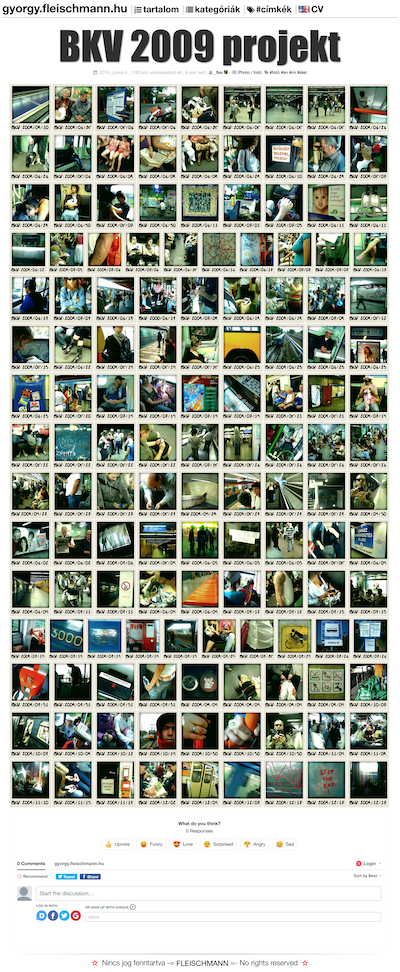
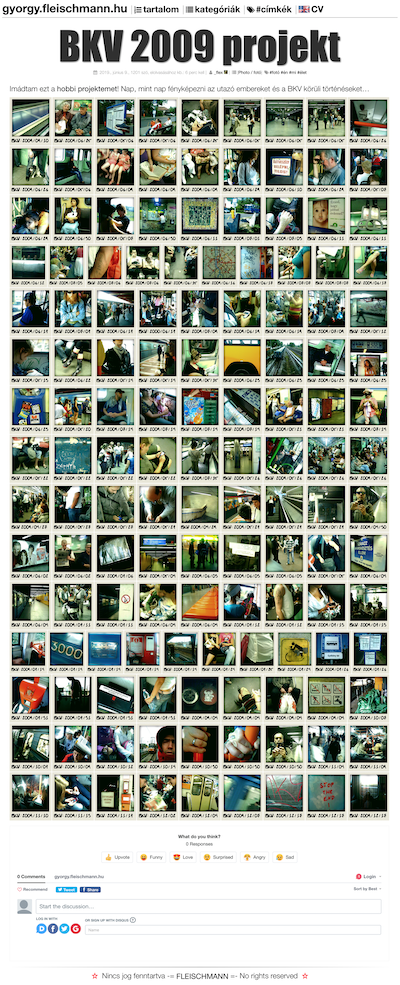
FIX: the mess...

diff --git a/_posts/2019-06-09-BKV2009.md b/_posts/2019-06-09-BKV2009.md
@@ -15,145 +15,147 @@ tags:     [fotó, én, mi, élet]
 <script type='text/javascript' src='unitegallery/js/unitegallery.min.js'></script> 
 <script type='text/javascript' src='unitegallery/themes/tiles/ug-theme-tiles.js'></script>
 
+Imádtam ezt a <a href="https:/www.flickr.com/photos/fleischmann/sets/72157622129419487/">hobbi projektemet</a>! Nap, mint nap fényképezni az utazó embereket és a BKV körüli történéseket...
+
 <div id="gallery" style="display:none; margin-bottom: .7em; margin-left: 0; margin-right: 0; margin-top: .5em;">
 
-	<img alt="BKV 2009" data-description="BKV 2009" src="photos/BKV2009/3907714768_a01dcdb5fc_o.jpg" data-image="photoBKV2009ra/3907714768_a01dcdb5fc_o.jpg">
-	<img alt="BKV 2009" data-description="BKV 2009" src="photos/BKV2009/img_0011_2_3890210790_o.jpg" data-image="photoBKV2009ra/img_0011_2_3890210790_o.jpg">
-	<img alt="BKV 2009" data-description="BKV 2009" src="photos/BKV2009/img_0011_3889391271_o.jpg" data-image="photos/BKV2009/img_0011_3889391271_o.jpg">
-	<img alt="BKV 2009" data-description="BKV 2009" src="photos/BKV2009/img_0013_3889391713_o.jpg" data-image="photos/BKV2009/img_0013_3889391713_o.jpg">
-	<img alt="BKV 2009" data-description="BKV 2009" src="photos/BKV2009/img_0024_2_3889418079_o.jpg" data-image="photoBKV2009ra/img_0024_2_3889418079_o.jpg">
-	<img alt="BKV 2009" data-description="BKV 2009" src="photos/BKV2009/img_0037_3890200180_o.jpg" data-image="photos/BKV2009/img_0037_3890200180_o.jpg">
-	<img alt="BKV 2009" data-description="BKV 2009" src="photos/BKV2009/img_0038_3890200560_o.jpg" data-image="photos/BKV2009/img_0038_3890200560_o.jpg">
-	<img alt="BKV 2009" data-description="BKV 2009" src="photos/BKV2009/img_0039_3889407527_o.jpg" data-image="photos/BKV2009/img_0039_3889407527_o.jpg">
-	<img alt="BKV 2009" data-description="BKV 2009" src="photos/BKV2009/img_0043_3890211640_o.jpg" data-image="photos/BKV2009/img_0043_3890211640_o.jpg">
-	<img alt="BKV 2009" data-description="BKV 2009" src="photos/BKV2009/img_0046_2_3890212124_o.jpg" data-image="photoBKV2009ra/img_0046_2_3890212124_o.jpg">
-	<img alt="BKV 2009" data-description="BKV 2009" src="photos/BKV2009/img_0047_3890185954_o.jpg" data-image="photos/BKV2009/img_0047_3890185954_o.jpg">
-	<img alt="BKV 2009" data-description="BKV 2009" src="photos/BKV2009/img_0052_3889407945_o.jpg" data-image="photos/BKV2009/img_0052_3889407945_o.jpg">
-	<img alt="BKV 2009" data-description="BKV 2009" src="photos/BKV2009/img_0053_3890201778_o.jpg" data-image="photos/BKV2009/img_0053_3890201778_o.jpg">
-	<img alt="BKV 2009" data-description="BKV 2009" src="photos/BKV2009/img_0054_3890202220_o.jpg" data-image="photos/BKV2009/img_0054_3890202220_o.jpg">
-	<img alt="BKV 2009" data-description="BKV 2009" src="photos/BKV2009/img_0061_3889419403_o.jpg" data-image="photos/BKV2009/img_0061_3889419403_o.jpg">
-	<img alt="BKV 2009" data-description="BKV 2009" src="photos/BKV2009/img_0066_3889409177_o.jpg" data-image="photos/BKV2009/img_0066_3889409177_o.jpg">
-	<img alt="BKV 2009" data-description="BKV 2009" src="photos/BKV2009/img_0069_3889419851_o.jpg" data-image="photos/BKV2009/img_0069_3889419851_o.jpg">
-	<img alt="BKV 2009" data-description="BKV 2009" src="photos/BKV2009/img_0070_3890186314_o.jpg" data-image="photos/BKV2009/img_0070_3890186314_o.jpg">
-	<img alt="BKV 2009" data-description="BKV 2009" src="photos/BKV2009/img_0070_3890213528_o.jpg" data-image="photos/BKV2009/img_0070_3890213528_o.jpg">
-	<img alt="BKV 2009" data-description="BKV 2009" src="photos/BKV2009/img_0071_3890213978_o.jpg" data-image="photos/BKV2009/img_0071_3890213978_o.jpg">
-	<img alt="BKV 2009" data-description="BKV 2009" src="photos/BKV2009/img_0074_3889392997_o.jpg" data-image="photos/BKV2009/img_0074_3889392997_o.jpg">
-	<img alt="BKV 2009" data-description="BKV 2009" src="photos/BKV2009/img_0090_3890214430_o.jpg" data-image="photos/BKV2009/img_0090_3890214430_o.jpg">
-	<img alt="BKV 2009" data-description="BKV 2009" src="photos/BKV2009/img_0095_3889409639_o.jpg" data-image="photos/BKV2009/img_0095_3889409639_o.jpg">
-	<img alt="BKV 2009" data-description="BKV 2009" src="photos/BKV2009/img_0103_3890214894_o.jpg" data-image="photos/BKV2009/img_0103_3890214894_o.jpg">
-	<img alt="BKV 2009" data-description="BKV 2009" src="photos/BKV2009/img_0114_3889422099_o.jpg" data-image="photos/BKV2009/img_0114_3889422099_o.jpg">
-	<img alt="BKV 2009" data-description="BKV 2009" src="photos/BKV2009/img_0116_3889410097_o.jpg" data-image="photos/BKV2009/img_0116_3889410097_o.jpg">
-	<img alt="BKV 2009" data-description="BKV 2009" src="photos/BKV2009/img_0117_3889410399_o.jpg" data-image="photos/BKV2009/img_0117_3889410399_o.jpg">
-	<img alt="BKV 2009" data-description="BKV 2009" src="photos/BKV2009/img_0124_3889410841_o.jpg" data-image="photos/BKV2009/img_0124_3889410841_o.jpg">
-	<img alt="BKV 2009" data-description="BKV 2009" src="photos/BKV2009/img_0124_3889422513_o.jpg" data-image="photos/BKV2009/img_0124_3889422513_o.jpg">
-	<img alt="BKV 2009" data-description="BKV 2009" src="photos/BKV2009/img_0165_3890216254_o.jpg" data-image="photos/BKV2009/img_0165_3890216254_o.jpg">
-	<img alt="BKV 2009" data-description="BKV 2009" src="photos/BKV2009/img_0171_3889423457_o.jpg" data-image="photos/BKV2009/img_0171_3889423457_o.jpg">
-	<img alt="BKV 2009" data-description="BKV 2009" src="photos/BKV2009/img_0179_3889411231_o.jpg" data-image="photos/BKV2009/img_0179_3889411231_o.jpg">
-	<img alt="BKV 2009" data-description="BKV 2009" src="photos/BKV2009/img_0186_3889411651_o.jpg" data-image="photos/BKV2009/img_0186_3889411651_o.jpg">
-	<img alt="BKV 2009" data-description="BKV 2009" src="photos/BKV2009/img_0193_3889412087_o.jpg" data-image="photos/BKV2009/img_0193_3889412087_o.jpg">
-	<img alt="BKV 2009" data-description="BKV 2009" src="photos/BKV2009/img_0193_3889423873_o.jpg" data-image="photos/BKV2009/img_0193_3889423873_o.jpg">
-	<img alt="BKV 2009" data-description="BKV 2009" src="photos/BKV2009/img_0201_3890217478_o.jpg" data-image="photos/BKV2009/img_0201_3890217478_o.jpg">
-	<img alt="BKV 2009" data-description="BKV 2009" src="photos/BKV2009/img_0203_3889412559_o.jpg" data-image="photos/BKV2009/img_0203_3889412559_o.jpg">
-	<img alt="BKV 2009" data-description="BKV 2009" src="photos/BKV2009/img_0213_3889412957_o.jpg" data-image="photos/BKV2009/img_0213_3889412957_o.jpg">
-	<img alt="BKV 2009" data-description="BKV 2009" src="photos/BKV2009/img_0217_3890217940_o.jpg" data-image="photos/BKV2009/img_0217_3890217940_o.jpg">
-	<img alt="BKV 2009" data-description="BKV 2009" src="photos/BKV2009/img_0223_3890206712_o.jpg" data-image="photos/BKV2009/img_0223_3890206712_o.jpg">
-	<img alt="BKV 2009" data-description="BKV 2009" src="photos/BKV2009/img_0224_3890207112_o.jpg" data-image="photos/BKV2009/img_0224_3890207112_o.jpg">
-	<img alt="BKV 2009" data-description="BKV 2009" src="photos/BKV2009/img_0225_3890218338_o.jpg" data-image="photos/BKV2009/img_0225_3890218338_o.jpg">
-	<img alt="BKV 2009" data-description="BKV 2009" src="photos/BKV2009/img_0233_3890207504_o.jpg" data-image="photos/BKV2009/img_0233_3890207504_o.jpg">
-	<img alt="BKV 2009" data-description="BKV 2009" src="photos/BKV2009/img_0234_3890207974_o.jpg" data-image="photos/BKV2009/img_0234_3890207974_o.jpg">
-	<img alt="BKV 2009" data-description="BKV 2009" src="photos/BKV2009/img_0243_3890218766_o.jpg" data-image="photos/BKV2009/img_0243_3890218766_o.jpg">
-	<img alt="BKV 2009" data-description="BKV 2009" src="photos/BKV2009/img_0270_3890187132_o.jpg" data-image="photos/BKV2009/img_0270_3890187132_o.jpg">
-	<img alt="BKV 2009" data-description="BKV 2009" src="photos/BKV2009/img_0285_3890187440_o.jpg" data-image="photos/BKV2009/img_0285_3890187440_o.jpg">
-	<img alt="BKV 2009" data-description="BKV 2009" src="photos/BKV2009/img_0290_3889415283_o.jpg" data-image="photos/BKV2009/img_0290_3889415283_o.jpg">
-	<img alt="BKV 2009" data-description="BKV 2009" src="photos/BKV2009/img_0302_3890187832_o.jpg" data-image="photos/BKV2009/img_0302_3890187832_o.jpg">
-	<img alt="BKV 2009" data-description="BKV 2009" src="photos/BKV2009/img_0308_3889394625_o.jpg" data-image="photos/BKV2009/img_0308_3889394625_o.jpg">
-	<img alt="BKV 2009" data-description="BKV 2009" src="photos/BKV2009/img_0313_3889394985_o.jpg" data-image="photos/BKV2009/img_0313_3889394985_o.jpg">
-	<img alt="BKV 2009" data-description="BKV 2009" src="photos/BKV2009/img_0316_2_3890208806_o.jpg" data-image="photoBKV2009ra/img_0316_2_3890208806_o.jpg">
-	<img alt="BKV 2009" data-description="BKV 2009" src="photos/BKV2009/img_0317_2_3889415983_o.jpg" data-image="photoBKV2009ra/img_0317_2_3889415983_o.jpg">
-	<img alt="BKV 2009" data-description="BKV 2009" src="photos/BKV2009/img_0318_2_3889416409_o.jpg" data-image="photoBKV2009ra/img_0318_2_3889416409_o.jpg">
-	<img alt="BKV 2009" data-description="BKV 2009" src="photos/BKV2009/img_0319_2_3890209890_o.jpg" data-image="photoBKV2009ra/img_0319_2_3890209890_o.jpg">
-	<img alt="BKV 2009" data-description="BKV 2009" src="photos/BKV2009/img_0327_3890210328_o.jpg" data-image="photos/BKV2009/img_0327_3890210328_o.jpg">
-	<img alt="BKV 2009" data-description="BKV 2009" src="photos/BKV2009/img_0440_3890189166_o.jpg" data-image="photos/BKV2009/img_0440_3890189166_o.jpg">
-	<img alt="BKV 2009" data-description="BKV 2009" src="photos/BKV2009/img_0455_3890219126_o.jpg" data-image="photos/BKV2009/img_0455_3890219126_o.jpg">
-	<img alt="BKV 2009" data-description="BKV 2009" src="photos/BKV2009/img_0456_3889426395_o.jpg" data-image="photos/BKV2009/img_0456_3889426395_o.jpg">
-	<img alt="BKV 2009" data-description="BKV 2009" src="photos/BKV2009/img_0457_3889426801_o.jpg" data-image="photos/BKV2009/img_0457_3889426801_o.jpg">
-	<img alt="BKV 2009" data-description="BKV 2009" src="photos/BKV2009/img_0458_3889427209_o.jpg" data-image="photos/BKV2009/img_0458_3889427209_o.jpg">
-	<img alt="BKV 2009" data-description="BKV 2009" src="photos/BKV2009/img_0460_3890189556_o.jpg" data-image="photos/BKV2009/img_0460_3890189556_o.jpg">
-	<img alt="BKV 2009" data-description="BKV 2009" src="photos/BKV2009/img_0461_3890190004_o.jpg" data-image="photos/BKV2009/img_0461_3890190004_o.jpg">
-	<img alt="BKV 2009" data-description="BKV 2009" src="photos/BKV2009/img_0470_3890220842_o.jpg" data-image="photos/BKV2009/img_0470_3890220842_o.jpg">
-	<img alt="BKV 2009" data-description="BKV 2009" src="photos/BKV2009/img_0481_3889396753_o.jpg" data-image="photos/BKV2009/img_0481_3889396753_o.jpg">
-	<img alt="BKV 2009" data-description="BKV 2009" src="photos/BKV2009/img_0486_3890190796_o.jpg" data-image="photos/BKV2009/img_0486_3890190796_o.jpg">
-	<img alt="BKV 2009" data-description="BKV 2009" src="photos/BKV2009/img_0495_3890191160_o.jpg" data-image="photos/BKV2009/img_0495_3890191160_o.jpg">
-	<img alt="BKV 2009" data-description="BKV 2009" src="photos/BKV2009/img_0496_3890191578_o.jpg" data-image="photos/BKV2009/img_0496_3890191578_o.jpg">
-	<img alt="BKV 2009" data-description="BKV 2009" src="photos/BKV2009/img_0501_3889428113_o.jpg" data-image="photos/BKV2009/img_0501_3889428113_o.jpg">
-	<img alt="BKV 2009" data-description="BKV 2009" src="photos/BKV2009/img_0603_3890192032_o.jpg" data-image="photos/BKV2009/img_0603_3890192032_o.jpg">
-	<img alt="BKV 2009" data-description="BKV 2009" src="photos/BKV2009/img_0604_3889398715_o.jpg" data-image="photos/BKV2009/img_0604_3889398715_o.jpg">
-	<img alt="BKV 2009" data-description="BKV 2009" src="photos/BKV2009/img_0605_3890192894_o.jpg" data-image="photos/BKV2009/img_0605_3890192894_o.jpg">
-	<img alt="BKV 2009" data-description="BKV 2009" src="photos/BKV2009/img_0606_3890193354_o.jpg" data-image="photos/BKV2009/img_0606_3890193354_o.jpg">
-	<img alt="BKV 2009" data-description="BKV 2009" src="photos/BKV2009/img_0625_3889389193_o.jpg" data-image="photos/BKV2009/img_0625_3889389193_o.jpg">
-	<img alt="BKV 2009" data-description="BKV 2009" src="photos/BKV2009/img_0626_3889400009_o.jpg" data-image="photos/BKV2009/img_0626_3889400009_o.jpg">
-	<img alt="BKV 2009" data-description="BKV 2009" src="photos/BKV2009/img_0636_3890194252_o.jpg" data-image="photos/BKV2009/img_0636_3890194252_o.jpg">
-	<img alt="BKV 2009" data-description="BKV 2009" src="photos/BKV2009/img_0657_3889400885_o.jpg" data-image="photos/BKV2009/img_0657_3889400885_o.jpg">
-	<img alt="BKV 2009" data-description="BKV 2009" src="photos/BKV2009/img_0664_3889389611_o.jpg" data-image="photos/BKV2009/img_0664_3889389611_o.jpg">
-	<img alt="BKV 2009" data-description="BKV 2009" src="photos/BKV2009/img_0668_3890195188_o.jpg" data-image="photos/BKV2009/img_0668_3890195188_o.jpg">
-	<img alt="BKV 2009" data-description="BKV 2009" src="photos/BKV2009/img_0669_3889401813_o.jpg" data-image="photos/BKV2009/img_0669_3889401813_o.jpg">
-	<img alt="BKV 2009" data-description="BKV 2009" src="photos/BKV2009/img_0675_3889402233_o.jpg" data-image="photos/BKV2009/img_0675_3889402233_o.jpg">
-	<img alt="BKV 2009" data-description="BKV 2009" src="photos/BKV2009/img_0751_3889390001_o.jpg" data-image="photos/BKV2009/img_0751_3889390001_o.jpg">
-	<img alt="BKV 2009" data-description="BKV 2009" src="photos/BKV2009/img_0912_3890196540_o.jpg" data-image="photos/BKV2009/img_0912_3890196540_o.jpg">
-	<img alt="BKV 2009" data-description="BKV 2009" src="photos/BKV2009/img_0914_3890196916_o.jpg" data-image="photos/BKV2009/img_0914_3890196916_o.jpg">
-	<img alt="BKV 2009" data-description="BKV 2009" src="photos/BKV2009/img_0947_3890221734_o.jpg" data-image="photos/BKV2009/img_0947_3890221734_o.jpg">
-	<img alt="BKV 2009" data-description="BKV 2009" src="photos/BKV2009/img_0953_3889390413_o.jpg" data-image="photos/BKV2009/img_0953_3889390413_o.jpg">
-	<img alt="BKV 2009" data-description="BKV 2009" src="photos/BKV2009/img_0955_3889403493_o.jpg" data-image="photos/BKV2009/img_0955_3889403493_o.jpg">
-	<img alt="BKV 2009" data-description="BKV 2009" src="photos/BKV2009/img_0961_3889403909_o.jpg" data-image="photos/BKV2009/img_0961_3889403909_o.jpg">
-	<img alt="BKV 2009" data-description="BKV 2009" src="photos/BKV2009/img_0962_3889404315_o.jpg" data-image="photos/BKV2009/img_0962_3889404315_o.jpg">
-	<img alt="BKV 2009" data-description="BKV 2009" src="photos/BKV2009/img_0986_3889390875_o.jpg" data-image="photos/BKV2009/img_0986_3889390875_o.jpg">
-	<img alt="BKV 2009" data-description="BKV 2009" src="photos/BKV2009/img_0986_3889404743_o.jpg" data-image="photos/BKV2009/img_0986_3889404743_o.jpg">
-	<img alt="BKV 2009" data-description="BKV 2009" src="photos/BKV2009/img_0987_3889405201_o.jpg" data-image="photos/BKV2009/img_0987_3889405201_o.jpg">
-	<img alt="BKV 2009" data-description="BKV 2009" src="photos/BKV2009/img_0993_3890222132_o.jpg" data-image="photos/BKV2009/img_0993_3890222132_o.jpg">
-	<img alt="BKV 2009" data-description="BKV 2009" src="photos/BKV2009/img_0994_3890222552_o.jpg" data-image="photos/BKV2009/img_0994_3890222552_o.jpg">
-	<img alt="BKV 2009" data-description="BKV 2009" src="photos/BKV2009/img_0996_3889405659_o.jpg" data-image="photos/BKV2009/img_0996_3889405659_o.jpg">
-	<img alt="BKV 2009" data-description="BKV 2009" src="photos/BKV2009/img_0998_3890199768_o.jpg" data-image="photos/BKV2009/img_0998_3890199768_o.jpg">
-	<img alt="BKV 2009" data-description="BKV 2009" src="photos/BKV2009/img_2334_3890223034_o.jpg" data-image="photos/BKV2009/img_2334_3890223034_o.jpg">
-	<img alt="BKV 2009" data-description="BKV 2009" src="photos/BKV2009/img_2338_3889430235_o.jpg" data-image="photos/BKV2009/img_2338_3889430235_o.jpg">
-	<img alt="BKV 2009" data-description="BKV 2009" src="photos/BKV2009/img_2351_3890223886_o.jpg" data-image="photos/BKV2009/img_2351_3890223886_o.jpg">
-	<img alt="BKV 2009" data-description="BKV 2009" src="photos/BKV2009/img_2354_3889431031_o.jpg" data-image="photos/BKV2009/img_2354_3889431031_o.jpg">
-	<img alt="BKV 2009" data-description="BKV 2009" src="photos/BKV2009/img_2373_3890224624_o.jpg" data-image="photos/BKV2009/img_2373_3890224624_o.jpg">
-	<img alt="BKV 2009" data-description="BKV 2009" src="photos/BKV2009/img_2374_3890224948_o.jpg" data-image="photos/BKV2009/img_2374_3890224948_o.jpg">
-	<img alt="BKV 2009" data-description="BKV 2009" src="photos/BKV2009/img_2376_3890225294_o.jpg" data-image="photos/BKV2009/img_2376_3890225294_o.jpg">
-	<img alt="BKV 2009" data-description="BKV 2009" src="photos/BKV2009/img_2377_3889432527_o.jpg" data-image="photos/BKV2009/img_2377_3889432527_o.jpg">
-	<img alt="BKV 2009" data-description="BKV 2009" src="photos/BKV2009/img_2378_3889432915_o.jpg" data-image="photos/BKV2009/img_2378_3889432915_o.jpg">
-	<img alt="BKV 2009" data-description="BKV 2009" src="photos/BKV2009/img_3141_3890226400_o.jpg" data-image="photos/BKV2009/img_3141_3890226400_o.jpg">
-	<img alt="BKV 2009" data-description="BKV 2009" src="photos/BKV2009/img_3160_3890226732_o.jpg" data-image="photos/BKV2009/img_3160_3890226732_o.jpg">
-	<img alt="BKV 2009" data-description="BKV 2009" src="photos/BKV2009/img_3161_3890227144_o.jpg" data-image="photos/BKV2009/img_3161_3890227144_o.jpg">
-	<img alt="BKV 2009" data-description="BKV 2009" src="photos/BKV2009/img_3194_3890227506_o.jpg" data-image="photos/BKV2009/img_3194_3890227506_o.jpg">
-	<img alt="BKV 2009" data-description="BKV 2009" src="photos/BKV2009/img_3195_3890228110_o.jpg" data-image="photos/BKV2009/img_3195_3890228110_o.jpg">
-	<img alt="BKV 2009" data-description="BKV 2009" src="photos/BKV2009/img_3249_3890228506_o.jpg" data-image="photos/BKV2009/img_3249_3890228506_o.jpg">
-	<img alt="BKV 2009" data-description="BKV 2009" src="photos/BKV2009/img_3272_3889435819_o.jpg" data-image="photos/BKV2009/img_3272_3889435819_o.jpg">
-	<img alt="BKV 2009" data-description="BKV 2009" src="photos/BKV2009/img_3278_3889436235_o.jpg" data-image="photos/BKV2009/img_3278_3889436235_o.jpg">
-	<img alt="BKV 2009" data-description="BKV 2009" src="photos/BKV2009/img_3279_3890229758_o.jpg" data-image="photos/BKV2009/img_3279_3890229758_o.jpg">
-	<img alt="BKV 2009" data-description="BKV 2009" src="photos/BKV2009/img_3311_3890230094_o.jpg" data-image="photos/BKV2009/img_3311_3890230094_o.jpg">
-	<img alt="BKV 2009" data-description="BKV 2009" src="photos/BKV2009/img_3312_3890230534_o.jpg" data-image="photos/BKV2009/img_3312_3890230534_o.jpg">
-	<img alt="BKV 2009" data-description="BKV 2009" src="photos/BKV2009/img_3323_3890230928_o.jpg" data-image="photos/BKV2009/img_3323_3890230928_o.jpg">
-	<img alt="BKV 2009" data-description="BKV 2009" src="photos/BKV2009/img_3325_3889438225_o.jpg" data-image="photos/BKV2009/img_3325_3889438225_o.jpg">
-	<img alt="BKV 2009" data-description="BKV 2009" src="photos/BKV2009/img_4354_4231175112_o.jpg" data-image="photos/BKV2009/img_4354_4231175112_o.jpg">
-	<img alt="BKV 2009" data-description="BKV 2009" src="photos/BKV2009/img_4395_4231177638_o.jpg" data-image="photos/BKV2009/img_4395_4231177638_o.jpg">
-	<img alt="BKV 2009" data-description="BKV 2009" src="photos/BKV2009/img_4412_4230412205_o.jpg" data-image="photos/BKV2009/img_4412_4230412205_o.jpg">
-	<img alt="BKV 2009" data-description="BKV 2009" src="photos/BKV2009/img_4443_4231176154_o.jpg" data-image="photos/BKV2009/img_4443_4231176154_o.jpg">
-	<img alt="BKV 2009" data-description="BKV 2009" src="photos/BKV2009/img_4516_4231178236_o.jpg" data-image="photos/BKV2009/img_4516_4231178236_o.jpg">
-	<img alt="BKV 2009" data-description="BKV 2009" src="photos/BKV2009/img_5225_4230407299_o.jpg" data-image="photos/BKV2009/img_5225_4230407299_o.jpg">
-	<img alt="BKV 2009" data-description="BKV 2009" src="photos/BKV2009/img_5226_4231178068_o.jpg" data-image="photos/BKV2009/img_5226_4231178068_o.jpg">
-	<img alt="BKV 2009" data-description="BKV 2009" src="photos/BKV2009/img_5243_4230408053_o.jpg" data-image="photos/BKV2009/img_5243_4230408053_o.jpg">
-	<img alt="BKV 2009" data-description="BKV 2009" src="photos/BKV2009/img_5284_4230411975_o.jpg" data-image="photos/BKV2009/img_5284_4230411975_o.jpg">
-	<img alt="BKV 2009" data-description="BKV 2009" src="photos/BKV2009/img_5301_4230409821_o.jpg" data-image="photos/BKV2009/img_5301_4230409821_o.jpg">
-	<img alt="BKV 2009" data-description="BKV 2009" src="photos/BKV2009/img_5312_4230409097_o.jpg" data-image="photos/BKV2009/img_5312_4230409097_o.jpg">
-	<img alt="BKV 2009" data-description="BKV 2009" src="photos/BKV2009/img_5339_4231175576_o.jpg" data-image="photos/BKV2009/img_5339_4231175576_o.jpg">
-	<img alt="BKV 2009" data-description="BKV 2009" src="photos/BKV2009/img_5380_4231178472_o.jpg" data-image="photos/BKV2009/img_5380_4231178472_o.jpg">
-	<img alt="BKV 2009" data-description="BKV 2009" src="photos/BKV2009/img_5532_4230409341_o.jpg" data-image="photos/BKV2009/img_5532_4230409341_o.jpg">
-	<img alt="BKV 2009" data-description="BKV 2009" src="photos/BKV2009/img_5571_4230411769_o.jpg" data-image="photos/BKV2009/img_5571_4230411769_o.jpg">
-	<img alt="BKV 2009" data-description="BKV 2009" src="photos/BKV2009/img_5613_4230410585_o.jpg" data-image="photos/BKV2009/img_5613_4230410585_o.jpg">
-	<img alt="BKV 2009" data-description="BKV 2009" src="photos/BKV2009/img_7113_4231174882_o.jpg" data-image="photos/BKV2009/img_7113_4231174882_o.jpg">
-	<img alt="BKV 2009" data-description="BKV 2009" src="photos/BKV2009/img_7114_4230411535_o.jpg" data-image="photos/BKV2009/img_7114_4230411535_o.jpg">
-	<img alt="BKV 2009" data-description="BKV 2009" src="photos/BKV2009/img_7123_4231176858_o.jpg" data-image="photos/BKV2009/img_7123_4231176858_o.jpg">
+<img alt="BKV 2009" data-description="BKV 2009" src="photos/BKV2009/3907714768_a01dcdb5fc_o.jpg" data-image="photos/BKV2009/3907714768_a01dcdb5fc_o.jpg">
+<img alt="BKV 2009" data-description="BKV 2009" src="photos/BKV2009/img_0011_2_3890210790_o.jpg" data-image="photos/BKV2009/img_0011_2_3890210790_o.jpg">
+<img alt="BKV 2009" data-description="BKV 2009" src="photos/BKV2009/img_0011_3889391271_o.jpg" data-image="photos/BKV2009/img_0011_3889391271_o.jpg">
+<img alt="BKV 2009" data-description="BKV 2009" src="photos/BKV2009/img_0013_3889391713_o.jpg" data-image="photos/BKV2009/img_0013_3889391713_o.jpg">
+<img alt="BKV 2009" data-description="BKV 2009" src="photos/BKV2009/img_0024_2_3889418079_o.jpg" data-image="photos/BKV2009/img_0024_2_3889418079_o.jpg">
+<img alt="BKV 2009" data-description="BKV 2009" src="photos/BKV2009/img_0037_3890200180_o.jpg" data-image="photos/BKV2009/img_0037_3890200180_o.jpg">
+<img alt="BKV 2009" data-description="BKV 2009" src="photos/BKV2009/img_0038_3890200560_o.jpg" data-image="photos/BKV2009/img_0038_3890200560_o.jpg">
+<img alt="BKV 2009" data-description="BKV 2009" src="photos/BKV2009/img_0039_3889407527_o.jpg" data-image="photos/BKV2009/img_0039_3889407527_o.jpg">
+<img alt="BKV 2009" data-description="BKV 2009" src="photos/BKV2009/img_0043_3890211640_o.jpg" data-image="photos/BKV2009/img_0043_3890211640_o.jpg">
+<img alt="BKV 2009" data-description="BKV 2009" src="photos/BKV2009/img_0046_2_3890212124_o.jpg" data-image="photos/BKV2009/img_0046_2_3890212124_o.jpg">
+<img alt="BKV 2009" data-description="BKV 2009" src="photos/BKV2009/img_0047_3890185954_o.jpg" data-image="photos/BKV2009/img_0047_3890185954_o.jpg">
+<img alt="BKV 2009" data-description="BKV 2009" src="photos/BKV2009/img_0052_3889407945_o.jpg" data-image="photos/BKV2009/img_0052_3889407945_o.jpg">
+<img alt="BKV 2009" data-description="BKV 2009" src="photos/BKV2009/img_0053_3890201778_o.jpg" data-image="photos/BKV2009/img_0053_3890201778_o.jpg">
+<img alt="BKV 2009" data-description="BKV 2009" src="photos/BKV2009/img_0054_3890202220_o.jpg" data-image="photos/BKV2009/img_0054_3890202220_o.jpg">
+<img alt="BKV 2009" data-description="BKV 2009" src="photos/BKV2009/img_0061_3889419403_o.jpg" data-image="photos/BKV2009/img_0061_3889419403_o.jpg">
+<img alt="BKV 2009" data-description="BKV 2009" src="photos/BKV2009/img_0066_3889409177_o.jpg" data-image="photos/BKV2009/img_0066_3889409177_o.jpg">
+<img alt="BKV 2009" data-description="BKV 2009" src="photos/BKV2009/img_0069_3889419851_o.jpg" data-image="photos/BKV2009/img_0069_3889419851_o.jpg">
+<img alt="BKV 2009" data-description="BKV 2009" src="photos/BKV2009/img_0070_3890186314_o.jpg" data-image="photos/BKV2009/img_0070_3890186314_o.jpg">
+<img alt="BKV 2009" data-description="BKV 2009" src="photos/BKV2009/img_0070_3890213528_o.jpg" data-image="photos/BKV2009/img_0070_3890213528_o.jpg">
+<img alt="BKV 2009" data-description="BKV 2009" src="photos/BKV2009/img_0071_3890213978_o.jpg" data-image="photos/BKV2009/img_0071_3890213978_o.jpg">
+<img alt="BKV 2009" data-description="BKV 2009" src="photos/BKV2009/img_0074_3889392997_o.jpg" data-image="photos/BKV2009/img_0074_3889392997_o.jpg">
+<img alt="BKV 2009" data-description="BKV 2009" src="photos/BKV2009/img_0090_3890214430_o.jpg" data-image="photos/BKV2009/img_0090_3890214430_o.jpg">
+<img alt="BKV 2009" data-description="BKV 2009" src="photos/BKV2009/img_0095_3889409639_o.jpg" data-image="photos/BKV2009/img_0095_3889409639_o.jpg">
+<img alt="BKV 2009" data-description="BKV 2009" src="photos/BKV2009/img_0103_3890214894_o.jpg" data-image="photos/BKV2009/img_0103_3890214894_o.jpg">
+<img alt="BKV 2009" data-description="BKV 2009" src="photos/BKV2009/img_0114_3889422099_o.jpg" data-image="photos/BKV2009/img_0114_3889422099_o.jpg">
+<img alt="BKV 2009" data-description="BKV 2009" src="photos/BKV2009/img_0116_3889410097_o.jpg" data-image="photos/BKV2009/img_0116_3889410097_o.jpg">
+<img alt="BKV 2009" data-description="BKV 2009" src="photos/BKV2009/img_0117_3889410399_o.jpg" data-image="photos/BKV2009/img_0117_3889410399_o.jpg">
+<img alt="BKV 2009" data-description="BKV 2009" src="photos/BKV2009/img_0124_3889410841_o.jpg" data-image="photos/BKV2009/img_0124_3889410841_o.jpg">
+<img alt="BKV 2009" data-description="BKV 2009" src="photos/BKV2009/img_0124_3889422513_o.jpg" data-image="photos/BKV2009/img_0124_3889422513_o.jpg">
+<img alt="BKV 2009" data-description="BKV 2009" src="photos/BKV2009/img_0165_3890216254_o.jpg" data-image="photos/BKV2009/img_0165_3890216254_o.jpg">
+<img alt="BKV 2009" data-description="BKV 2009" src="photos/BKV2009/img_0171_3889423457_o.jpg" data-image="photos/BKV2009/img_0171_3889423457_o.jpg">
+<img alt="BKV 2009" data-description="BKV 2009" src="photos/BKV2009/img_0179_3889411231_o.jpg" data-image="photos/BKV2009/img_0179_3889411231_o.jpg">
+<img alt="BKV 2009" data-description="BKV 2009" src="photos/BKV2009/img_0186_3889411651_o.jpg" data-image="photos/BKV2009/img_0186_3889411651_o.jpg">
+<img alt="BKV 2009" data-description="BKV 2009" src="photos/BKV2009/img_0193_3889412087_o.jpg" data-image="photos/BKV2009/img_0193_3889412087_o.jpg">
+<img alt="BKV 2009" data-description="BKV 2009" src="photos/BKV2009/img_0193_3889423873_o.jpg" data-image="photos/BKV2009/img_0193_3889423873_o.jpg">
+<img alt="BKV 2009" data-description="BKV 2009" src="photos/BKV2009/img_0201_3890217478_o.jpg" data-image="photos/BKV2009/img_0201_3890217478_o.jpg">
+<img alt="BKV 2009" data-description="BKV 2009" src="photos/BKV2009/img_0203_3889412559_o.jpg" data-image="photos/BKV2009/img_0203_3889412559_o.jpg">
+<img alt="BKV 2009" data-description="BKV 2009" src="photos/BKV2009/img_0213_3889412957_o.jpg" data-image="photos/BKV2009/img_0213_3889412957_o.jpg">
+<img alt="BKV 2009" data-description="BKV 2009" src="photos/BKV2009/img_0217_3890217940_o.jpg" data-image="photos/BKV2009/img_0217_3890217940_o.jpg">
+<img alt="BKV 2009" data-description="BKV 2009" src="photos/BKV2009/img_0223_3890206712_o.jpg" data-image="photos/BKV2009/img_0223_3890206712_o.jpg">
+<img alt="BKV 2009" data-description="BKV 2009" src="photos/BKV2009/img_0224_3890207112_o.jpg" data-image="photos/BKV2009/img_0224_3890207112_o.jpg">
+<img alt="BKV 2009" data-description="BKV 2009" src="photos/BKV2009/img_0225_3890218338_o.jpg" data-image="photos/BKV2009/img_0225_3890218338_o.jpg">
+<img alt="BKV 2009" data-description="BKV 2009" src="photos/BKV2009/img_0233_3890207504_o.jpg" data-image="photos/BKV2009/img_0233_3890207504_o.jpg">
+<img alt="BKV 2009" data-description="BKV 2009" src="photos/BKV2009/img_0234_3890207974_o.jpg" data-image="photos/BKV2009/img_0234_3890207974_o.jpg">
+<img alt="BKV 2009" data-description="BKV 2009" src="photos/BKV2009/img_0243_3890218766_o.jpg" data-image="photos/BKV2009/img_0243_3890218766_o.jpg">
+<img alt="BKV 2009" data-description="BKV 2009" src="photos/BKV2009/img_0270_3890187132_o.jpg" data-image="photos/BKV2009/img_0270_3890187132_o.jpg">
+<img alt="BKV 2009" data-description="BKV 2009" src="photos/BKV2009/img_0285_3890187440_o.jpg" data-image="photos/BKV2009/img_0285_3890187440_o.jpg">
+<img alt="BKV 2009" data-description="BKV 2009" src="photos/BKV2009/img_0290_3889415283_o.jpg" data-image="photos/BKV2009/img_0290_3889415283_o.jpg">
+<img alt="BKV 2009" data-description="BKV 2009" src="photos/BKV2009/img_0302_3890187832_o.jpg" data-image="photos/BKV2009/img_0302_3890187832_o.jpg">
+<img alt="BKV 2009" data-description="BKV 2009" src="photos/BKV2009/img_0308_3889394625_o.jpg" data-image="photos/BKV2009/img_0308_3889394625_o.jpg">
+<img alt="BKV 2009" data-description="BKV 2009" src="photos/BKV2009/img_0313_3889394985_o.jpg" data-image="photos/BKV2009/img_0313_3889394985_o.jpg">
+<img alt="BKV 2009" data-description="BKV 2009" src="photos/BKV2009/img_0316_2_3890208806_o.jpg" data-image="photos/BKV2009/img_0316_2_3890208806_o.jpg">
+<img alt="BKV 2009" data-description="BKV 2009" src="photos/BKV2009/img_0317_2_3889415983_o.jpg" data-image="photos/BKV2009/img_0317_2_3889415983_o.jpg">
+<img alt="BKV 2009" data-description="BKV 2009" src="photos/BKV2009/img_0318_2_3889416409_o.jpg" data-image="photos/BKV2009/img_0318_2_3889416409_o.jpg">
+<img alt="BKV 2009" data-description="BKV 2009" src="photos/BKV2009/img_0319_2_3890209890_o.jpg" data-image="photos/BKV2009/img_0319_2_3890209890_o.jpg">
+<img alt="BKV 2009" data-description="BKV 2009" src="photos/BKV2009/img_0327_3890210328_o.jpg" data-image="photos/BKV2009/img_0327_3890210328_o.jpg">
+<img alt="BKV 2009" data-description="BKV 2009" src="photos/BKV2009/img_0440_3890189166_o.jpg" data-image="photos/BKV2009/img_0440_3890189166_o.jpg">
+<img alt="BKV 2009" data-description="BKV 2009" src="photos/BKV2009/img_0455_3890219126_o.jpg" data-image="photos/BKV2009/img_0455_3890219126_o.jpg">
+<img alt="BKV 2009" data-description="BKV 2009" src="photos/BKV2009/img_0456_3889426395_o.jpg" data-image="photos/BKV2009/img_0456_3889426395_o.jpg">
+<img alt="BKV 2009" data-description="BKV 2009" src="photos/BKV2009/img_0457_3889426801_o.jpg" data-image="photos/BKV2009/img_0457_3889426801_o.jpg">
+<img alt="BKV 2009" data-description="BKV 2009" src="photos/BKV2009/img_0458_3889427209_o.jpg" data-image="photos/BKV2009/img_0458_3889427209_o.jpg">
+<img alt="BKV 2009" data-description="BKV 2009" src="photos/BKV2009/img_0460_3890189556_o.jpg" data-image="photos/BKV2009/img_0460_3890189556_o.jpg">
+<img alt="BKV 2009" data-description="BKV 2009" src="photos/BKV2009/img_0461_3890190004_o.jpg" data-image="photos/BKV2009/img_0461_3890190004_o.jpg">
+<img alt="BKV 2009" data-description="BKV 2009" src="photos/BKV2009/img_0470_3890220842_o.jpg" data-image="photos/BKV2009/img_0470_3890220842_o.jpg">
+<img alt="BKV 2009" data-description="BKV 2009" src="photos/BKV2009/img_0481_3889396753_o.jpg" data-image="photos/BKV2009/img_0481_3889396753_o.jpg">
+<img alt="BKV 2009" data-description="BKV 2009" src="photos/BKV2009/img_0486_3890190796_o.jpg" data-image="photos/BKV2009/img_0486_3890190796_o.jpg">
+<img alt="BKV 2009" data-description="BKV 2009" src="photos/BKV2009/img_0495_3890191160_o.jpg" data-image="photos/BKV2009/img_0495_3890191160_o.jpg">
+<img alt="BKV 2009" data-description="BKV 2009" src="photos/BKV2009/img_0496_3890191578_o.jpg" data-image="photos/BKV2009/img_0496_3890191578_o.jpg">
+<img alt="BKV 2009" data-description="BKV 2009" src="photos/BKV2009/img_0501_3889428113_o.jpg" data-image="photos/BKV2009/img_0501_3889428113_o.jpg">
+<img alt="BKV 2009" data-description="BKV 2009" src="photos/BKV2009/img_0603_3890192032_o.jpg" data-image="photos/BKV2009/img_0603_3890192032_o.jpg">
+<img alt="BKV 2009" data-description="BKV 2009" src="photos/BKV2009/img_0604_3889398715_o.jpg" data-image="photos/BKV2009/img_0604_3889398715_o.jpg">
+<img alt="BKV 2009" data-description="BKV 2009" src="photos/BKV2009/img_0605_3890192894_o.jpg" data-image="photos/BKV2009/img_0605_3890192894_o.jpg">
+<img alt="BKV 2009" data-description="BKV 2009" src="photos/BKV2009/img_0606_3890193354_o.jpg" data-image="photos/BKV2009/img_0606_3890193354_o.jpg">
+<img alt="BKV 2009" data-description="BKV 2009" src="photos/BKV2009/img_0625_3889389193_o.jpg" data-image="photos/BKV2009/img_0625_3889389193_o.jpg">
+<img alt="BKV 2009" data-description="BKV 2009" src="photos/BKV2009/img_0626_3889400009_o.jpg" data-image="photos/BKV2009/img_0626_3889400009_o.jpg">
+<img alt="BKV 2009" data-description="BKV 2009" src="photos/BKV2009/img_0636_3890194252_o.jpg" data-image="photos/BKV2009/img_0636_3890194252_o.jpg">
+<img alt="BKV 2009" data-description="BKV 2009" src="photos/BKV2009/img_0657_3889400885_o.jpg" data-image="photos/BKV2009/img_0657_3889400885_o.jpg">
+<img alt="BKV 2009" data-description="BKV 2009" src="photos/BKV2009/img_0664_3889389611_o.jpg" data-image="photos/BKV2009/img_0664_3889389611_o.jpg">
+<img alt="BKV 2009" data-description="BKV 2009" src="photos/BKV2009/img_0668_3890195188_o.jpg" data-image="photos/BKV2009/img_0668_3890195188_o.jpg">
+<img alt="BKV 2009" data-description="BKV 2009" src="photos/BKV2009/img_0669_3889401813_o.jpg" data-image="photos/BKV2009/img_0669_3889401813_o.jpg">
+<img alt="BKV 2009" data-description="BKV 2009" src="photos/BKV2009/img_0675_3889402233_o.jpg" data-image="photos/BKV2009/img_0675_3889402233_o.jpg">
+<img alt="BKV 2009" data-description="BKV 2009" src="photos/BKV2009/img_0751_3889390001_o.jpg" data-image="photos/BKV2009/img_0751_3889390001_o.jpg">
+<img alt="BKV 2009" data-description="BKV 2009" src="photos/BKV2009/img_0912_3890196540_o.jpg" data-image="photos/BKV2009/img_0912_3890196540_o.jpg">
+<img alt="BKV 2009" data-description="BKV 2009" src="photos/BKV2009/img_0914_3890196916_o.jpg" data-image="photos/BKV2009/img_0914_3890196916_o.jpg">
+<img alt="BKV 2009" data-description="BKV 2009" src="photos/BKV2009/img_0947_3890221734_o.jpg" data-image="photos/BKV2009/img_0947_3890221734_o.jpg">
+<img alt="BKV 2009" data-description="BKV 2009" src="photos/BKV2009/img_0953_3889390413_o.jpg" data-image="photos/BKV2009/img_0953_3889390413_o.jpg">
+<img alt="BKV 2009" data-description="BKV 2009" src="photos/BKV2009/img_0955_3889403493_o.jpg" data-image="photos/BKV2009/img_0955_3889403493_o.jpg">
+<img alt="BKV 2009" data-description="BKV 2009" src="photos/BKV2009/img_0961_3889403909_o.jpg" data-image="photos/BKV2009/img_0961_3889403909_o.jpg">
+<img alt="BKV 2009" data-description="BKV 2009" src="photos/BKV2009/img_0962_3889404315_o.jpg" data-image="photos/BKV2009/img_0962_3889404315_o.jpg">
+<img alt="BKV 2009" data-description="BKV 2009" src="photos/BKV2009/img_0986_3889390875_o.jpg" data-image="photos/BKV2009/img_0986_3889390875_o.jpg">
+<img alt="BKV 2009" data-description="BKV 2009" src="photos/BKV2009/img_0986_3889404743_o.jpg" data-image="photos/BKV2009/img_0986_3889404743_o.jpg">
+<img alt="BKV 2009" data-description="BKV 2009" src="photos/BKV2009/img_0987_3889405201_o.jpg" data-image="photos/BKV2009/img_0987_3889405201_o.jpg">
+<img alt="BKV 2009" data-description="BKV 2009" src="photos/BKV2009/img_0993_3890222132_o.jpg" data-image="photos/BKV2009/img_0993_3890222132_o.jpg">
+<img alt="BKV 2009" data-description="BKV 2009" src="photos/BKV2009/img_0994_3890222552_o.jpg" data-image="photos/BKV2009/img_0994_3890222552_o.jpg">
+<img alt="BKV 2009" data-description="BKV 2009" src="photos/BKV2009/img_0996_3889405659_o.jpg" data-image="photos/BKV2009/img_0996_3889405659_o.jpg">
+<img alt="BKV 2009" data-description="BKV 2009" src="photos/BKV2009/img_0998_3890199768_o.jpg" data-image="photos/BKV2009/img_0998_3890199768_o.jpg">
+<img alt="BKV 2009" data-description="BKV 2009" src="photos/BKV2009/img_2334_3890223034_o.jpg" data-image="photos/BKV2009/img_2334_3890223034_o.jpg">
+<img alt="BKV 2009" data-description="BKV 2009" src="photos/BKV2009/img_2338_3889430235_o.jpg" data-image="photos/BKV2009/img_2338_3889430235_o.jpg">
+<img alt="BKV 2009" data-description="BKV 2009" src="photos/BKV2009/img_2351_3890223886_o.jpg" data-image="photos/BKV2009/img_2351_3890223886_o.jpg">
+<img alt="BKV 2009" data-description="BKV 2009" src="photos/BKV2009/img_2354_3889431031_o.jpg" data-image="photos/BKV2009/img_2354_3889431031_o.jpg">
+<img alt="BKV 2009" data-description="BKV 2009" src="photos/BKV2009/img_2373_3890224624_o.jpg" data-image="photos/BKV2009/img_2373_3890224624_o.jpg">
+<img alt="BKV 2009" data-description="BKV 2009" src="photos/BKV2009/img_2374_3890224948_o.jpg" data-image="photos/BKV2009/img_2374_3890224948_o.jpg">
+<img alt="BKV 2009" data-description="BKV 2009" src="photos/BKV2009/img_2376_3890225294_o.jpg" data-image="photos/BKV2009/img_2376_3890225294_o.jpg">
+<img alt="BKV 2009" data-description="BKV 2009" src="photos/BKV2009/img_2377_3889432527_o.jpg" data-image="photos/BKV2009/img_2377_3889432527_o.jpg">
+<img alt="BKV 2009" data-description="BKV 2009" src="photos/BKV2009/img_2378_3889432915_o.jpg" data-image="photos/BKV2009/img_2378_3889432915_o.jpg">
+<img alt="BKV 2009" data-description="BKV 2009" src="photos/BKV2009/img_3141_3890226400_o.jpg" data-image="photos/BKV2009/img_3141_3890226400_o.jpg">
+<img alt="BKV 2009" data-description="BKV 2009" src="photos/BKV2009/img_3160_3890226732_o.jpg" data-image="photos/BKV2009/img_3160_3890226732_o.jpg">
+<img alt="BKV 2009" data-description="BKV 2009" src="photos/BKV2009/img_3161_3890227144_o.jpg" data-image="photos/BKV2009/img_3161_3890227144_o.jpg">
+<img alt="BKV 2009" data-description="BKV 2009" src="photos/BKV2009/img_3194_3890227506_o.jpg" data-image="photos/BKV2009/img_3194_3890227506_o.jpg">
+<img alt="BKV 2009" data-description="BKV 2009" src="photos/BKV2009/img_3195_3890228110_o.jpg" data-image="photos/BKV2009/img_3195_3890228110_o.jpg">
+<img alt="BKV 2009" data-description="BKV 2009" src="photos/BKV2009/img_3249_3890228506_o.jpg" data-image="photos/BKV2009/img_3249_3890228506_o.jpg">
+<img alt="BKV 2009" data-description="BKV 2009" src="photos/BKV2009/img_3272_3889435819_o.jpg" data-image="photos/BKV2009/img_3272_3889435819_o.jpg">
+<img alt="BKV 2009" data-description="BKV 2009" src="photos/BKV2009/img_3278_3889436235_o.jpg" data-image="photos/BKV2009/img_3278_3889436235_o.jpg">
+<img alt="BKV 2009" data-description="BKV 2009" src="photos/BKV2009/img_3279_3890229758_o.jpg" data-image="photos/BKV2009/img_3279_3890229758_o.jpg">
+<img alt="BKV 2009" data-description="BKV 2009" src="photos/BKV2009/img_3311_3890230094_o.jpg" data-image="photos/BKV2009/img_3311_3890230094_o.jpg">
+<img alt="BKV 2009" data-description="BKV 2009" src="photos/BKV2009/img_3312_3890230534_o.jpg" data-image="photos/BKV2009/img_3312_3890230534_o.jpg">
+<img alt="BKV 2009" data-description="BKV 2009" src="photos/BKV2009/img_3323_3890230928_o.jpg" data-image="photos/BKV2009/img_3323_3890230928_o.jpg">
+<img alt="BKV 2009" data-description="BKV 2009" src="photos/BKV2009/img_3325_3889438225_o.jpg" data-image="photos/BKV2009/img_3325_3889438225_o.jpg">
+<img alt="BKV 2009" data-description="BKV 2009" src="photos/BKV2009/img_4354_4231175112_o.jpg" data-image="photos/BKV2009/img_4354_4231175112_o.jpg">
+<img alt="BKV 2009" data-description="BKV 2009" src="photos/BKV2009/img_4395_4231177638_o.jpg" data-image="photos/BKV2009/img_4395_4231177638_o.jpg">
+<img alt="BKV 2009" data-description="BKV 2009" src="photos/BKV2009/img_4412_4230412205_o.jpg" data-image="photos/BKV2009/img_4412_4230412205_o.jpg">
+<img alt="BKV 2009" data-description="BKV 2009" src="photos/BKV2009/img_4443_4231176154_o.jpg" data-image="photos/BKV2009/img_4443_4231176154_o.jpg">
+<img alt="BKV 2009" data-description="BKV 2009" src="photos/BKV2009/img_4516_4231178236_o.jpg" data-image="photos/BKV2009/img_4516_4231178236_o.jpg">
+<img alt="BKV 2009" data-description="BKV 2009" src="photos/BKV2009/img_5225_4230407299_o.jpg" data-image="photos/BKV2009/img_5225_4230407299_o.jpg">
+<img alt="BKV 2009" data-description="BKV 2009" src="photos/BKV2009/img_5226_4231178068_o.jpg" data-image="photos/BKV2009/img_5226_4231178068_o.jpg">
+<img alt="BKV 2009" data-description="BKV 2009" src="photos/BKV2009/img_5243_4230408053_o.jpg" data-image="photos/BKV2009/img_5243_4230408053_o.jpg">
+<img alt="BKV 2009" data-description="BKV 2009" src="photos/BKV2009/img_5284_4230411975_o.jpg" data-image="photos/BKV2009/img_5284_4230411975_o.jpg">
+<img alt="BKV 2009" data-description="BKV 2009" src="photos/BKV2009/img_5301_4230409821_o.jpg" data-image="photos/BKV2009/img_5301_4230409821_o.jpg">
+<img alt="BKV 2009" data-description="BKV 2009" src="photos/BKV2009/img_5312_4230409097_o.jpg" data-image="photos/BKV2009/img_5312_4230409097_o.jpg">
+<img alt="BKV 2009" data-description="BKV 2009" src="photos/BKV2009/img_5339_4231175576_o.jpg" data-image="photos/BKV2009/img_5339_4231175576_o.jpg">
+<img alt="BKV 2009" data-description="BKV 2009" src="photos/BKV2009/img_5380_4231178472_o.jpg" data-image="photos/BKV2009/img_5380_4231178472_o.jpg">
+<img alt="BKV 2009" data-description="BKV 2009" src="photos/BKV2009/img_5532_4230409341_o.jpg" data-image="photos/BKV2009/img_5532_4230409341_o.jpg">
+<img alt="BKV 2009" data-description="BKV 2009" src="photos/BKV2009/img_5571_4230411769_o.jpg" data-image="photos/BKV2009/img_5571_4230411769_o.jpg">
+<img alt="BKV 2009" data-description="BKV 2009" src="photos/BKV2009/img_5613_4230410585_o.jpg" data-image="photos/BKV2009/img_5613_4230410585_o.jpg">
+<img alt="BKV 2009" data-description="BKV 2009" src="photos/BKV2009/img_7113_4231174882_o.jpg" data-image="photos/BKV2009/img_7113_4231174882_o.jpg">
+<img alt="BKV 2009" data-description="BKV 2009" src="photos/BKV2009/img_7114_4230411535_o.jpg" data-image="photos/BKV2009/img_7114_4230411535_o.jpg">
+<img alt="BKV 2009" data-description="BKV 2009" src="photos/BKV2009/img_7123_4231176858_o.jpg" data-image="photos/BKV2009/img_7123_4231176858_o.jpg">
 
 </div>
 
@@ -163,7 +165,7 @@ tags:     [fotó, én, mi, élet]
 
 		tiles_space_between_cols:      2,
 		tiles_justified_space_between: 2,
-		tiles_col_width:               300,
+		tiles_col_width:               400,
 		tile_enable_shadow:            false,
 			tile_shadow_h: 			   3,			//position of horizontal shadow
 			tile_shadow_v: 			   3,			//position of vertical shadow
